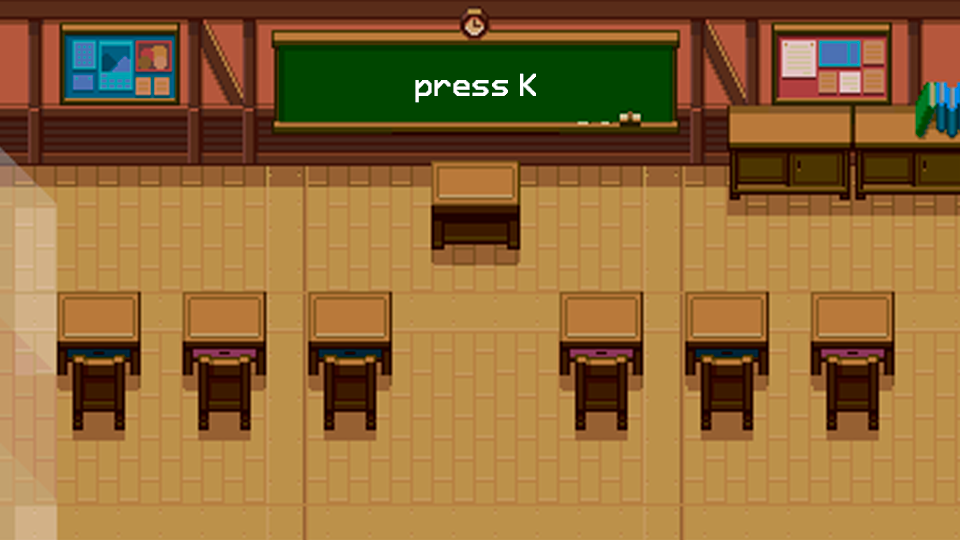
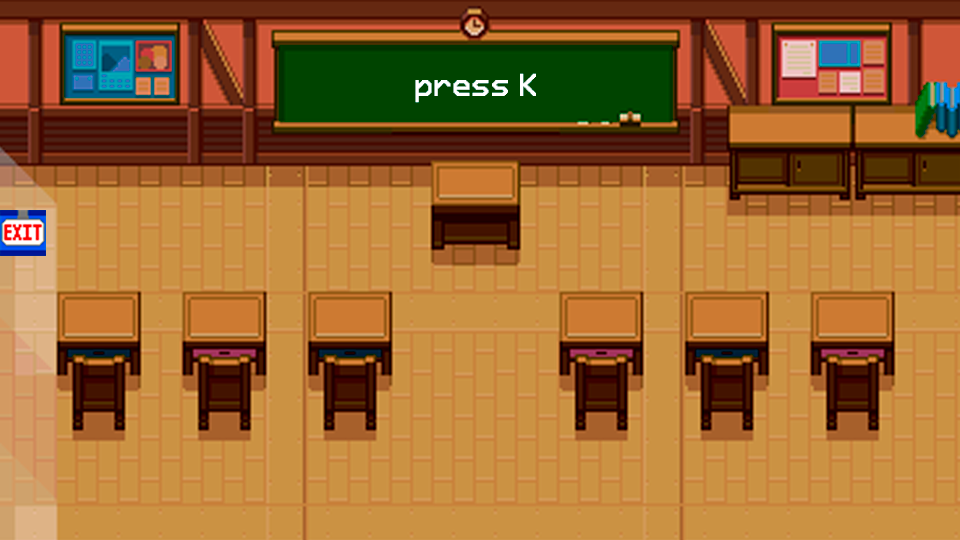
Hack your mind - Created main scene for quest and some changes in files

Changed region(s): [[0.5, 0.0296, 1.0, 0.2074], [0.0, 0.0296, 0.4688, 0.2074], [0.0, 0.3852, 0.0625, 0.4741]]

diff --git a/src/main/java/nullproject/game/Game.java b/src/main/java/nullproject/game/Game.java
@@ -41,12 +41,14 @@ public class Game {
     //Player
     public Player player;
 
-    private int playerSpeed = 5;
+    private int playerSpeed = 3;
 
     //ImageView
     private ImageView viewDialogOpenDoor = new ImageView(InitImage.imageInGameAudienceOpenDoor);
     private Scene scene = new Scene(appRoot, Config.WINDOW_WIDTH, Config.WINDOW_HEIGHT);
     private Stage mainStage = new Stage();
+
+    private boolean isCanExit = false;
 
     private static Game ourInstance = new Game();
 
@@ -54,7 +56,8 @@ public class Game {
         return ourInstance;
     }
 
-    private Game() {}
+    private Game() {
+    }
 
     public void startGame(Stage gameStage, Status status) {
 
@@ -63,6 +66,7 @@ public class Game {
         } else if (status == Status.LEVEL_2) {
             gameInitializationL2();
         }
+
         mainStage = gameStage;
         scene.setOnKeyPressed(event -> keys.put(event.getCode(), true));
         scene.setOnKeyReleased(event -> {
@@ -71,8 +75,8 @@ public class Game {
 
         });
 
-//        player.setScaleX(GameConfigs.playerSize);
-//        player.setScaleY(GameConfigs.playerSize);
+        player.setScaleX(GameConfigs.playerSize);
+        player.setScaleY(GameConfigs.playerSize);
 
         appRoot.getChildren().addAll(gameRoot);
 
@@ -91,22 +95,7 @@ public class Game {
     }
 
     public void gameInitialization() {
-        player = new Player();
-        playerSpeed = 5;
-        Level1.level1();
-        player.setTranslateX(50);
-        player.setTranslateY(350);
-        player.translateXProperty().addListener((obs, old, newValue) -> {
-            int offset = newValue.intValue();
-            if (offset > 640 && offset < GameConfigs.levelsWidth - 640) {
-                gameRoot.setLayoutX(-(offset - 640));
-            }
-        });
 
-        gameRoot.getChildren().addAll(player, viewDialogOpenDoor);
-    }
-
-    public void gameInitializationL2() {
         player = new Player();
         ImageView viewInAudience = new ImageView(InitImage.imageInGameAudience);
 
@@ -122,29 +111,46 @@ public class Game {
         gameRoot.getChildren().addAll(viewInAudience, player);
     }
 
+    public void gameInitializationL2() {
+        player = new Player();
+        playerSpeed = 5;
+        Level1.level1();
+        player.setTranslateX(50);
+        player.setTranslateY(350);
+        player.translateXProperty().addListener((obs, old, newValue) -> {
+            int offset = newValue.intValue();
+            if (offset > 640 && offset < GameConfigs.levelsWidth - 640) {
+                gameRoot.setLayoutX(-(offset - 640));
+            }
+        });
+
+        gameRoot.getChildren().addAll(player, viewDialogOpenDoor);
+    }
+
     private void update() {
         viewDialogOpenDoor.setOpacity(0);
 
         if (isPressed(KeyCode.UP)) {
             player.animation.play();
-//            player.animation.setOffsetY(96);
+            player.animation.setOffsetY(144);
             player.moveY(-playerSpeed);
         } else if (isPressed(KeyCode.DOWN)) {
             player.animation.play();
-//            player.animation.setOffsetY(0);
+            player.animation.setOffsetY(0);
             player.moveY(playerSpeed);
         } else if (isPressed(KeyCode.RIGHT)) {
             player.animation.play();
-//            player.animation.setOffsetY(64);
+            player.animation.setOffsetY(96);
             player.moveX(playerSpeed);
+
         } else if (isPressed(KeyCode.LEFT)) {
             player.animation.play();
-//            player.animation.setOffsetY(32);
+            player.animation.setOffsetY(48);
             player.moveX(-playerSpeed);
+
         } else {
             player.animation.stop();
         }
-
 
         player.isDoorOpen();
     }
@@ -173,5 +179,12 @@ public class Game {
         }
     }
 
+    public boolean isCanExit() {
+        return isCanExit;
+    }
+
+    public void setCanExit(boolean canExit) {
+        isCanExit = canExit;
+    }
 }
 

diff --git a/src/main/java/nullproject/player/Player.java b/src/main/java/nullproject/player/Player.java
@@ -18,16 +18,16 @@ import java.util.ConcurrentModificationException;
 
 public class Player extends Pane implements PlayerPower {
 
-    int count = 3;
-    int column = 3;
-    int offer_x = 96;
-    int offer_y = 33;
-    int width = 16;
-    int height = 16;
+    int count = 4;
+    int column = 4;
+    int offer_x = 0;
+    int offer_y = 0;
+    int width = 32;
+    int height = 48;
     public SpriteAnimation animation;
     private DropShadow dropShadow;
 
-    Image image = new Image(getClass().getResourceAsStream("../../scene/game/mario.png"));
+    Image image = new Image(getClass().getResourceAsStream("../../scene/game/sprite.png"));
     ImageView imageView = new ImageView(image);
 
     public Player() {
@@ -38,8 +38,8 @@ public class Player extends Pane implements PlayerPower {
         dropShadow.setColor(Color.color(0.4, 0.5, 0.5));
         imageView.setViewport(new Rectangle2D(offer_x, offer_y, width, height));
         imageView.setEffect(dropShadow);
-        imageView.setFitHeight(40);
-        imageView.setFitWidth(40);
+        imageView.setFitHeight(GameConfigs.PLAYER_HEIGHT);
+        imageView.setFitWidth(GameConfigs.PLAYER_WIDTH);
         animation = new SpriteAnimation(imageView, Duration.millis(200), count, column, offer_x, offer_y, width, height);
         getChildren().addAll(imageView);
     }
@@ -51,7 +51,7 @@ public class Player extends Pane implements PlayerPower {
             for (Node platform : Game.platforms) {
                 if (getBoundsInParent().intersects(platform.getBoundsInParent())) {
                     if (movingRight) {
-                        if (getTranslateX() + GameConfigs.PLAYER_SIZE == platform.getTranslateX()) {
+                        if (getTranslateX() + GameConfigs.PLAYER_WIDTH == platform.getTranslateX()) {
                             setTranslateX(getTranslateX() - 1);
                             return;
                         }
@@ -74,7 +74,7 @@ public class Player extends Pane implements PlayerPower {
             for (Node platform : Game.platforms) {
                 if (this.getBoundsInParent().intersects(platform.getBoundsInParent())) {
                     if (movingDown) {
-                        if (this.getTranslateY() + GameConfigs.PLAYER_SIZE == platform.getTranslateY()) {
+                        if (this.getTranslateY() + GameConfigs.PLAYER_HEIGHT == platform.getTranslateY()) {
                             this.setTranslateY(this.getTranslateY() - 1);
                             return;
                         }
@@ -93,9 +93,13 @@ public class Player extends Pane implements PlayerPower {
     @Override
     public void isDoorOpen() {
         try {
-            for (Door coin : Game.doors) {
-                if (this.getBoundsInParent().intersects(coin.getBoundsInParent())) {
-                    Game.getInstance().showDialog();
+            for (Door door : Game.doors) {
+                if (this.getBoundsInParent().intersects(door.getBoundsInParent())) {
+                    if (Game.getInstance().isCanExit() == false){
+                        System.out.println("You can't exit ... ");
+                    }else {
+                        System.out.println("Exit ... ");
+                    }
                 }
             }
         } catch (ConcurrentModificationException e) {

diff --git a/src/main/java/nullproject/levels/Level2.java b/src/main/java/nullproject/levels/Level2.java
@@ -8,21 +8,20 @@ import nullproject.player.Player;
 public class Level2 {
 
      static String[] LEVEL2 = new String[]{
-            "0,0,0,0,0,0,0,0,0,0",
-            "3,0,0,0,0,0,0,0,0,0",
-            "3,3,3,3,3,3,3,3,3,3",
-            "3,0,0,0,0,0,0,0,0,3",
-            "3,0,0,0,0,0,0,0,0,3",
-            "3,0,0,0,0,0,0,0,0,3",
-            "3,0,0,3,0,0,0,0,0,3",
-            "3,3,0,3,3,0,0,0,0,3",
-            "3,3,0,3,3,0,0,0,0,3",
-            "3,0,0,0,0,0,0,0,0,3",
-            "3,0,0,0,0,0,0,0,0,3",
-            "3,0,0,0,0,0,0,0,0,3",
-            "3,0,0,0,0,0,0,0,0,3",
-            "3,0,0,0,0,0,0,0,0,3",
-
+            "0,1,1,1,1,1,1,1,1,1,1,1",
+            "0,0,0,0,0,0,0,0,0,0,0,1",
+            "0,0,0,0,0,0,0,0,0,0,0,1",
+            "0,0,0,0,0,0,0,0,0,0,0,1",
+            "9,0,0,0,0,0,0,0,0,0,0,1",
+            "0,0,0,0,0,0,0,0,0,0,0,1",
+            "0,0,0,0,0,0,0,0,0,0,0,1",
+            "0,0,0,0,0,0,0,0,0,0,0,1",
+            "0,0,0,0,0,0,0,0,0,0,0,1",
+            "0,0,0,0,0,0,0,0,0,0,0,1",
+            "0,0,0,0,0,0,0,0,0,0,0,1",
+            "0,0,0,0,0,0,0,0,0,0,0,1",
+            "0,0,0,0,0,0,9,0,0,0,0,1",
+            "0,1,1,1,1,1,1,1,1,1,1,1",
     };
 
     public static String[][] levels = new String[][]{
@@ -36,8 +35,11 @@ public class Level2 {
                 switch (line.charAt(j)) {
                     case '0':
                         break;
-                    case '3':
+                    case '1':
                         Blocks platform = new Blocks(Blocks.BlockType.INVISIBLE_BLOCK, j * GameConfigs.BLOCK_SIZE, i * GameConfigs.BLOCK_SIZE);
+                        break;
+                    case '9':
+                        Door exit = new Door( j * GameConfigs.BLOCK_SIZE, i * GameConfigs.BLOCK_SIZE);
                         break;
                 }
             }

diff --git a/src/main/java/nullproject/menu/MainMenu.java b/src/main/java/nullproject/menu/MainMenu.java
@@ -11,7 +11,6 @@ import nullproject.config.Config;
 import nullproject.config.InitImage;
 import nullproject.config.Status;
 import nullproject.game.Game;
-import nullproject.game.GameMenu;
 import nullproject.game_scene.InLectureHall;
 
 public class MainMenu {
@@ -43,8 +42,7 @@ public class MainMenu {
                 Animation.fadeTransition(pane, 1, 1, 0);
                 Animation.getFadeTransition().setOnFinished(event -> {
 //                    InLectureHall.getInstance().start(stage);
-//                    Game.getInstance().startGame(stage, Status.LEVEL_1);
-                    GameMenu.getInstance().start(stage);
+                    Game.getInstance().startGame(stage, Status.LEVEL_1);
                 });
             }
         });

diff --git a/src/main/java/nullproject/levels/blocks/Blocks.java b/src/main/java/nullproject/levels/blocks/Blocks.java
@@ -15,7 +15,7 @@ public class Blocks extends Pane {
     }
 
     public enum BlockType {
-        PLATFORM, INVISIBLE_BLOCK
+        INVISIBLE_BLOCK
     }
 
     public Blocks(BlockType blockType, int x, int y) {
@@ -26,9 +26,6 @@ public class Blocks extends Pane {
         setTranslateY(y);
 
         switch (blockType) {
-            case PLATFORM:
-                block.setViewport(new Rectangle2D(128, 0, 32, 32));
-                break;
             case INVISIBLE_BLOCK:
                 block.setViewport(new Rectangle2D(0, 0, 32, 32));
                 break;

diff --git a/src/main/java/nullproject/config/GameConfigs.java b/src/main/java/nullproject/config/GameConfigs.java
@@ -5,7 +5,8 @@ import nullproject.levels.Level1;
 public class GameConfigs {
 
     //Player position and block size
-    public static final int PLAYER_SIZE = 40;
+    public static final int PLAYER_WIDTH = 40;
+    public static final int PLAYER_HEIGHT = 60;
     public static final int BLOCK_SIZE = 50;
 
     public static int lvl = 0;
@@ -13,7 +14,7 @@ public class GameConfigs {
 
     public static int level1Length = Level1.levels[lvl].length;
 
-    public static double playerSize = 1;
+    public static double playerSize = 1.5;
 
 
 }

diff --git a/src/main/java/nullproject/levels/blocks/Door.java b/src/main/java/nullproject/levels/blocks/Door.java
@@ -9,7 +9,7 @@ import nullproject.game.Game;
 
 public class Door extends Blocks {
 
-    private Image blockDoor = new Image(getClass().getResourceAsStream("../../../scene/game/door.png"));
+    private Image blockDoor = new Image(getClass().getResourceAsStream("../../../scene/game/tiles.png"));
     private ImageView viewDoor = new ImageView(blockDoor);
 
     public Door(int x, int y) {
